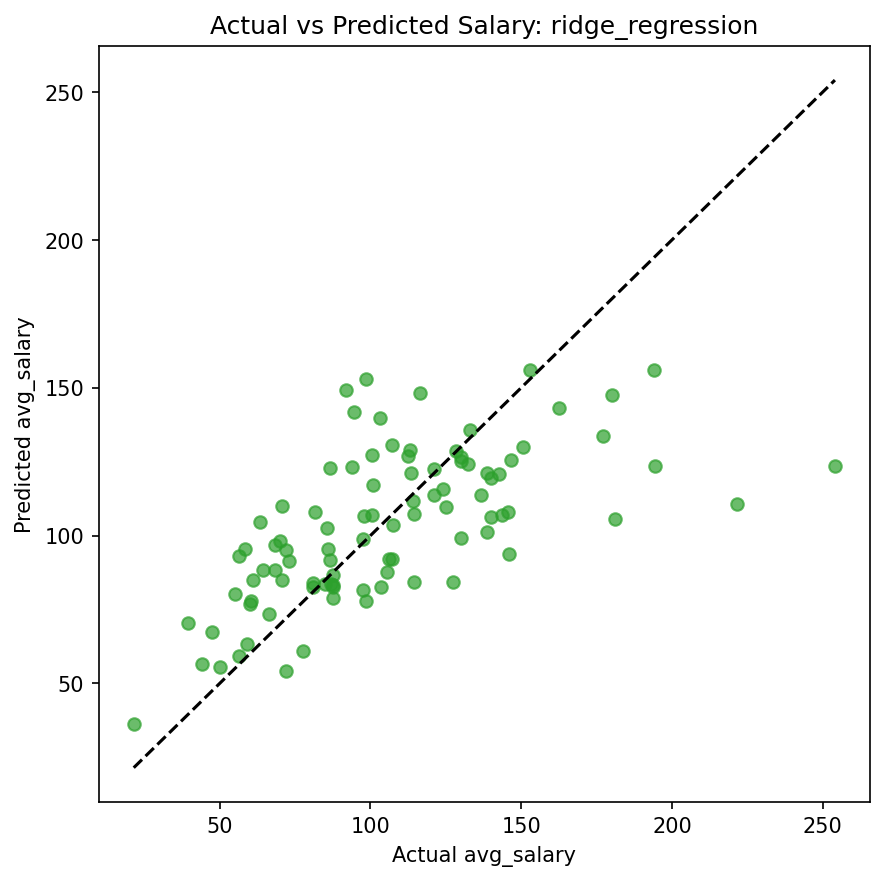
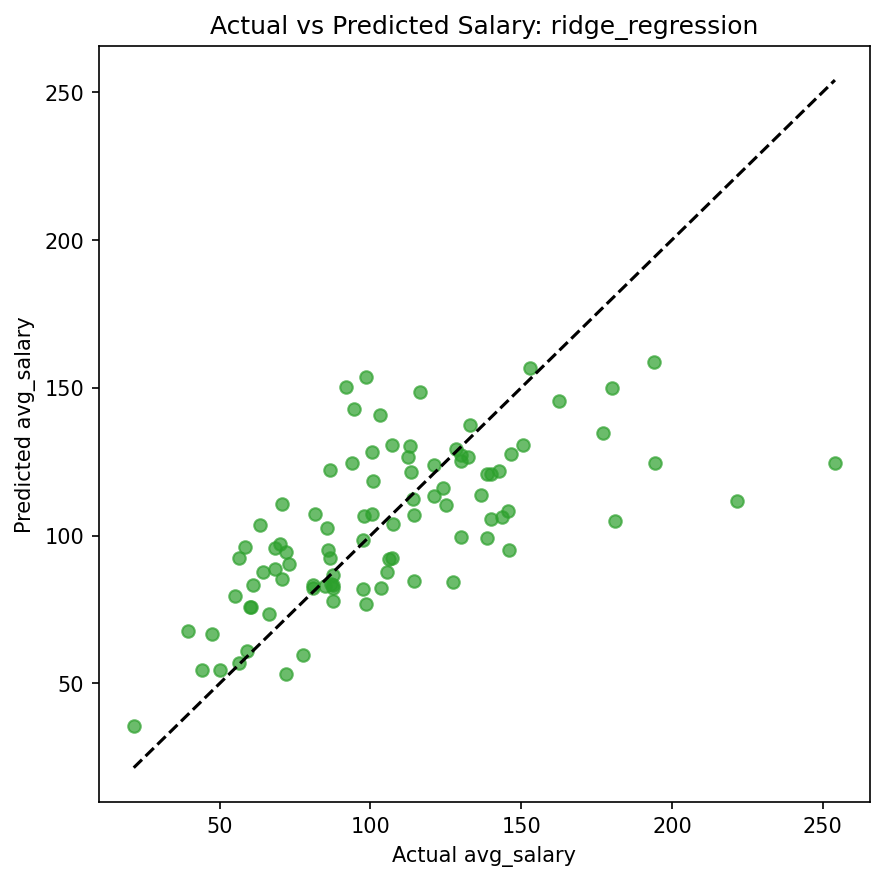
Refresh Ridge artifacts and evaluation outputs

diff --git a/results/training/training_report.md b/results/training/training_report.md
@@ -15,9 +15,15 @@
 - `LassoCV` as the L1-regularized linear model
 - `RandomForestRegressor` as the nonlinear tabular baseline
 
-## Regularized Linear Model Search Space
+## Ridge Search Configuration
+- `alpha_count=81`
+- `alpha_min=0.0001`
+- `alpha_max=10000.0`
+- `cross_validation=10-fold shuffled CV`
+- Ridge selected alpha: 7.943282347242821
+
+## Lasso Search Configuration
 - `alphas=[0.001, 0.01, 0.1, 1.0, 10.0, 100.0]`
-- Ridge selected alpha: 10.0
 - Lasso selected alpha: 1.0
 
 ## Random Forest Configuration
@@ -35,5 +41,6 @@
 
 ## Notes
 - The Linear Regression model provides a simple baseline for comparison.
+- Ridge now uses a denser logarithmic alpha grid with shuffled 10-fold cross-validation to make regularization tuning more stable.
 - The Random Forest hyperparameters were chosen as a strong initial baseline and can be tuned later if evaluation suggests it.
 - Final model comparison happens in Stage 9 using the held-out test set.

diff --git a/results/evaluation/evaluation_report.md b/results/evaluation/evaluation_report.md
@@ -1,20 +1,20 @@
 # Evaluation Report
 
 ## Stage 9 Scope
-- This report compares the two Version 1 baseline models on the held-out test set.
+- This report compares the Version 1 baseline models on the held-out test set.
 - The best model is selected primarily by the lowest RMSE, with MSE and R² also reported.
 
 ## Model Metrics
-- `ridge_regression`: MSE=975.7049, RMSE=31.2363, R²=0.4102
+- `ridge_regression`: MSE=962.6841, RMSE=31.0272, R²=0.4181
 - `linear_regression`: MSE=1026.3917, RMSE=32.0373, R²=0.3796
 - `lasso_regression`: MSE=1113.6436, RMSE=33.3713, R²=0.3269
 - `random_forest`: MSE=1235.4839, RMSE=35.1495, R²=0.2532
 
 ## Best Model
 - Best-performing model: `ridge_regression`
-- Best RMSE: 31.2363
-- Best MSE: 975.7049
-- Best R²: 0.4102
+- Best RMSE: 31.0272
+- Best MSE: 962.6841
+- Best R²: 0.4181
 - Better regularized model between Ridge and Lasso: `ridge_regression`
 
 ## Saved Outputs

diff --git a/results/predictions/prediction_report.md b/results/predictions/prediction_report.md
@@ -12,9 +12,9 @@
 - Binary fields accept 0/1, yes/no, and true/false style input.
 
 ## Sample Prediction Results
-- `complete_sample` predicted salary: 157.64
+- `complete_sample` predicted salary: 158.86
 - `complete_sample` warnings: none
-- `incomplete_sample` predicted salary: 74.25
+- `incomplete_sample` predicted salary: 73.21
 - `incomplete_sample` warnings: Missing `Job Description`; used the dataset-default `sql_yn` value. | Missing `Job Description`; used the dataset-default `tableau_yn` value. | Filled missing predictor fields with dataset defaults: R_yn, Revenue, Sector, Size, Type of ownership, company_age, excel, hourly, spark, sql_yn, tableau_yn
 
 ## Notes
